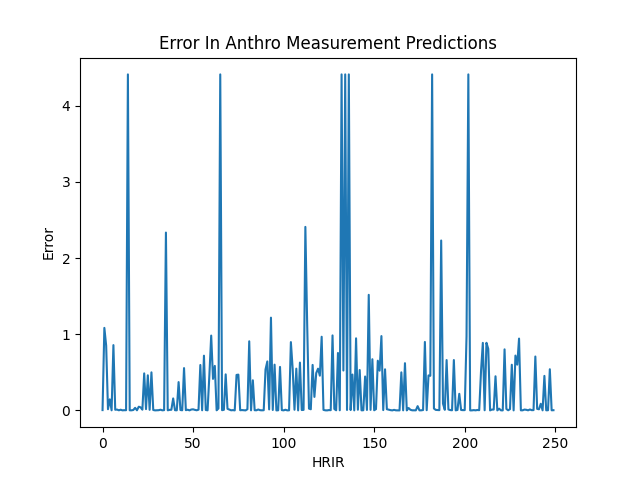
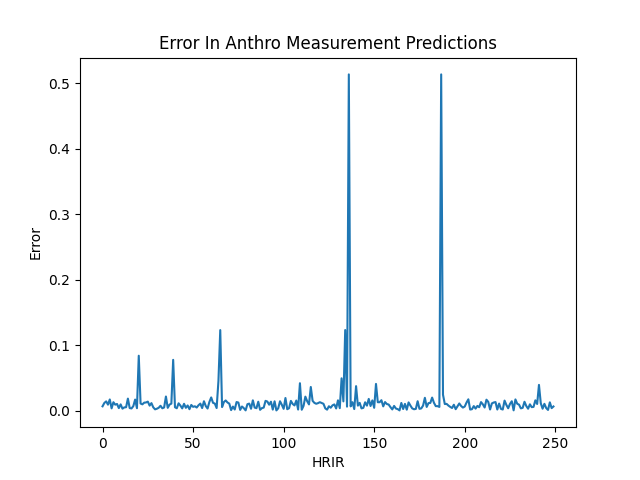
added function to predict subject anthro and position

diff --git a/src/main.py b/src/main.py
@@ -1,22 +1,58 @@
 from model import *
 from train import *
+from inputProcessing import *
 import torch
+import numpy as np
 
 class Main:
 
-    def main():
+    def __init__(self):
+        self.model = Model()
+        self.trainer = ModelTrainer()
+
+    # This method will train and test the model
+    def trainAndTest(self):
 
         torch.manual_seed(41)
 
-        model = Model()
+        self.trainer.trainModel(self.model)
 
-        trainer = ModelTrainer()
-
-        trainer.trainModel(model)
-
-        mape = trainer.basicValidation(model)
+        mape = self.trainer.basicValidation(self.model)
 
         print(mape)
 
+    # This method will make a prediction given a subject
+    def predictAnthroPos(self, subject):
+        hrir = InputProcessing.extractHRIR(subject)
+        hrir = torch.FloatTensor(hrir)
+        hrir_normal = torch.nn.functional.normalize(hrir, p=2.0, dim=1)
+        with torch.no_grad():
+            # Make prediction
+            anthro_pred, pos_pred = self.model.forward(hrir_normal)
+            
+            # Reverse the normalization
+            reversed_normal_anthro = []
+            for tensor in anthro_pred:
+                lp_norm = np.linalg.norm(tensor, 2)
+                reversed_vector = tensor * (1.0/lp_norm)
+                reversed_normal_anthro.append(reversed_vector)
+
+            reversed_normal_pos = []
+            for tensor in pos_pred:
+                lp_norm = np.linalg.norm(tensor, 2)
+                reversed_vector = tensor * (1.0/lp_norm)
+                reversed_normal_pos.append(reversed_vector)
+            
+            #Find the average predictions across all hrirs
+            anthroPrediction = torch.mean(torch.stack(reversed_normal_anthro), dim=0).tolist()
+            posPrediction = torch.mean(torch.stack(reversed_normal_pos), dim=0).tolist()
+
+            return anthroPrediction, posPrediction
+            
+
     
-Main.main()
+main = Main()
+main.trainAndTest()
+anthroPred, posPred = main.predictAnthroPos(3)
+print(anthroPred)
+print(posPred)

diff --git a/src/train.py b/src/train.py
@@ -21,12 +21,16 @@ class ModelTrainer:
         self.hrir_test  = torch.nn.functional.normalize(hrir_test, p=2.0, dim = 1)
 
         anthro_train = torch.FloatTensor(anthro_train)
+        self.anthro_mean = torch.mean(anthro_train)
+        self.anthro_std = torch.std(anthro_train)
         self.anthro_train = torch.nn.functional.normalize(anthro_train, p=2.0, dim = 1)
 
         anthro_test = torch.FloatTensor(anthro_test)
         self.anthro_test = torch.nn.functional.normalize(anthro_test, p=2.0, dim = 1)
 
         pos_train = torch.FloatTensor(pos_train)
+        self.pos_mean = torch.mean(pos_train)
+        self.pos_std = torch.std(pos_train)
         self.pos_train = torch.nn.functional.normalize(pos_train, p=2.0, dim = 1)
 
         pos_test = torch.FloatTensor(pos_test)
